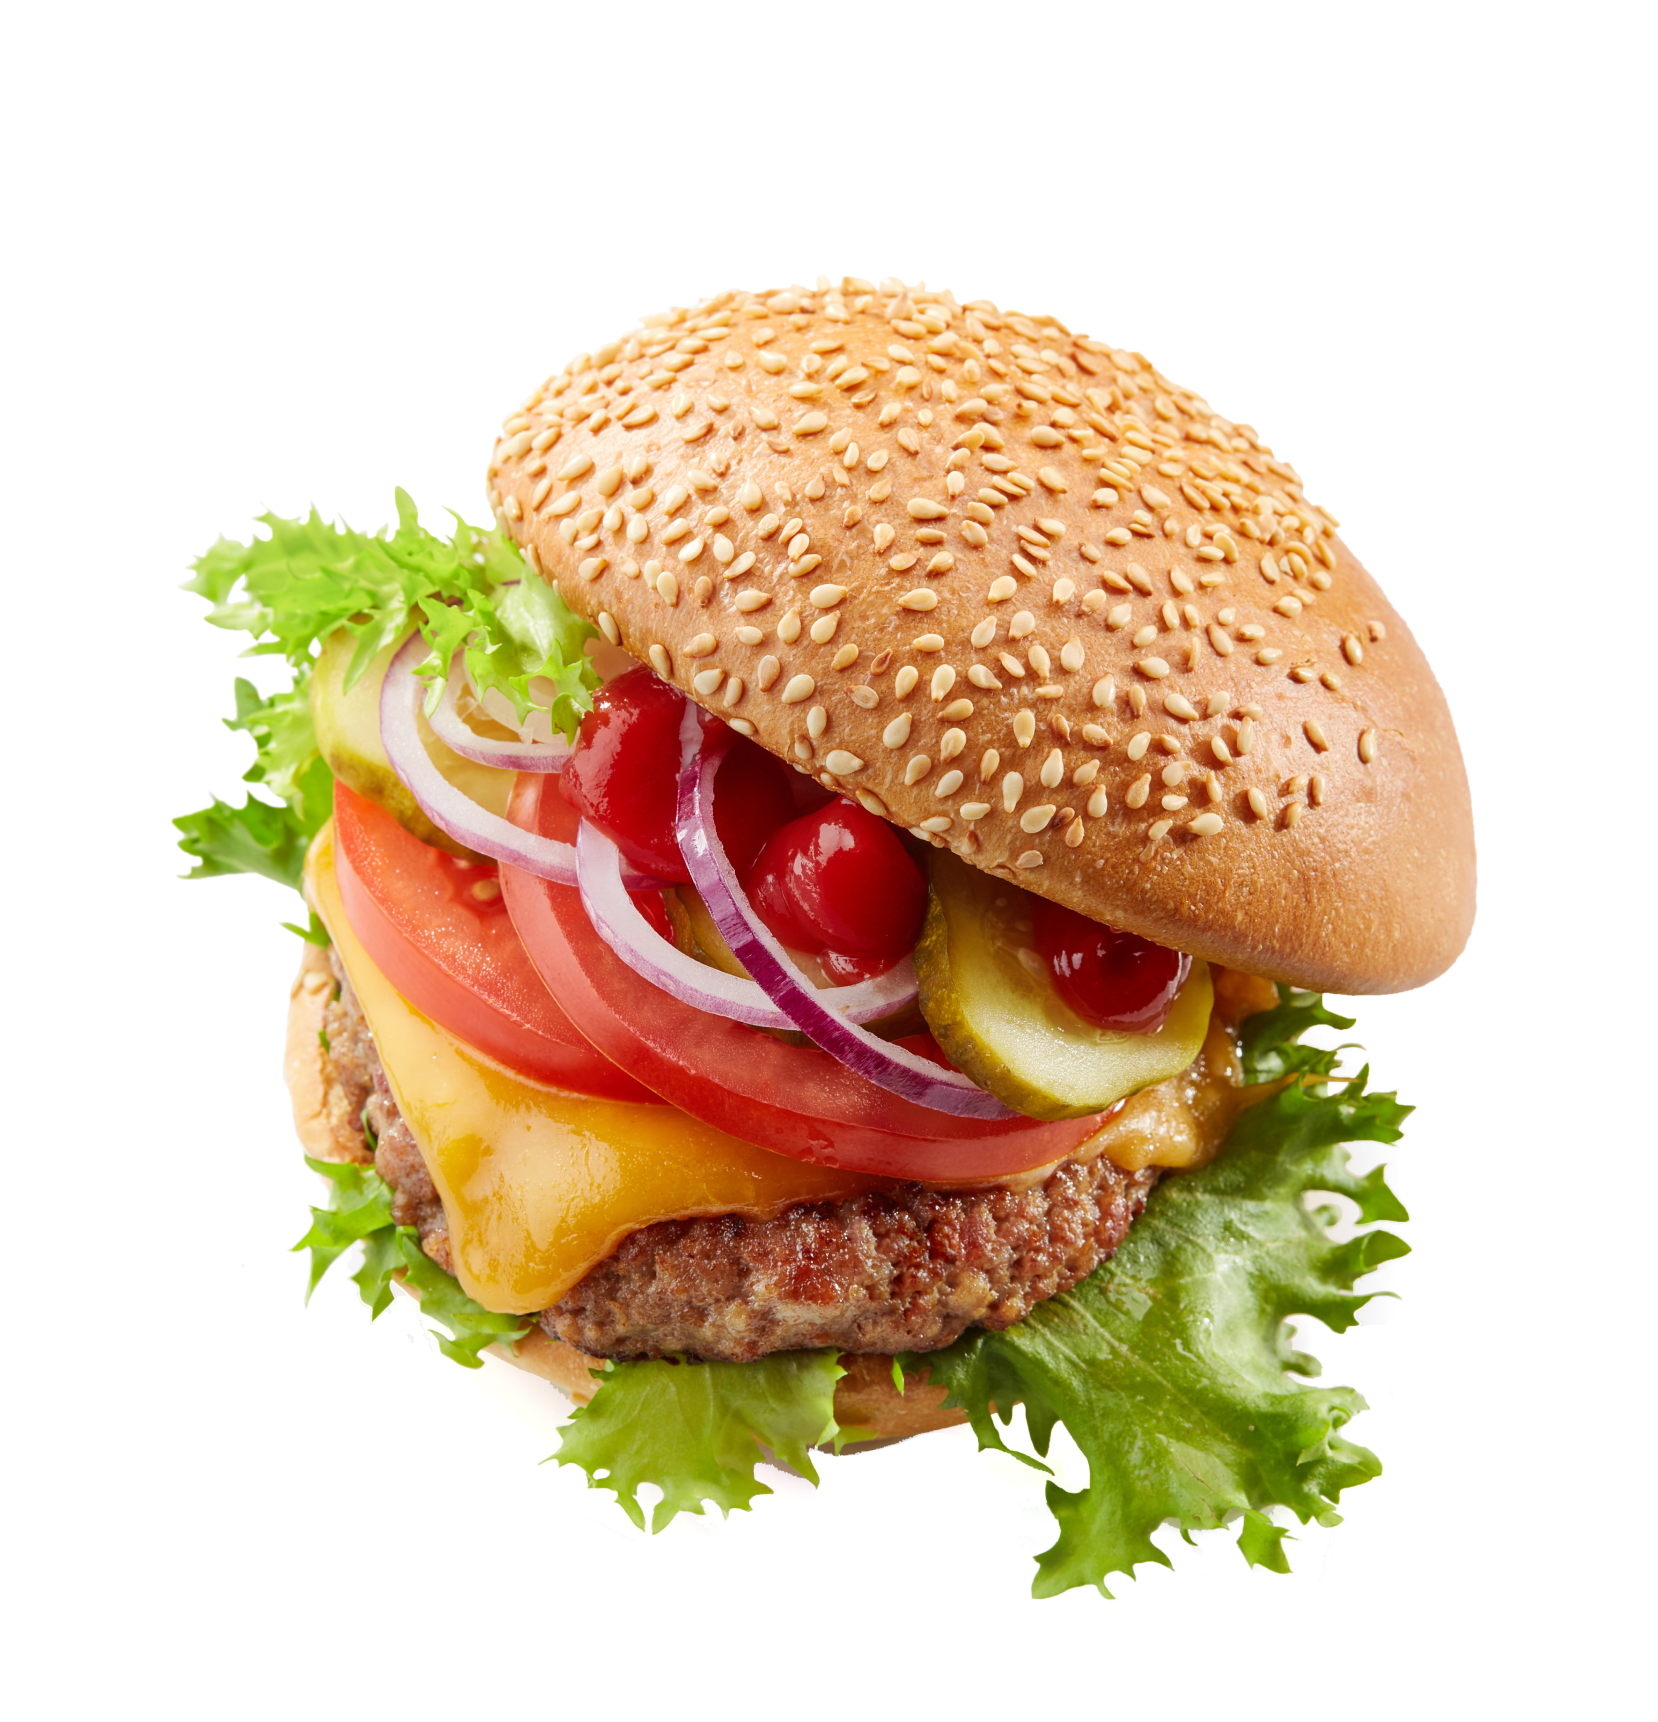
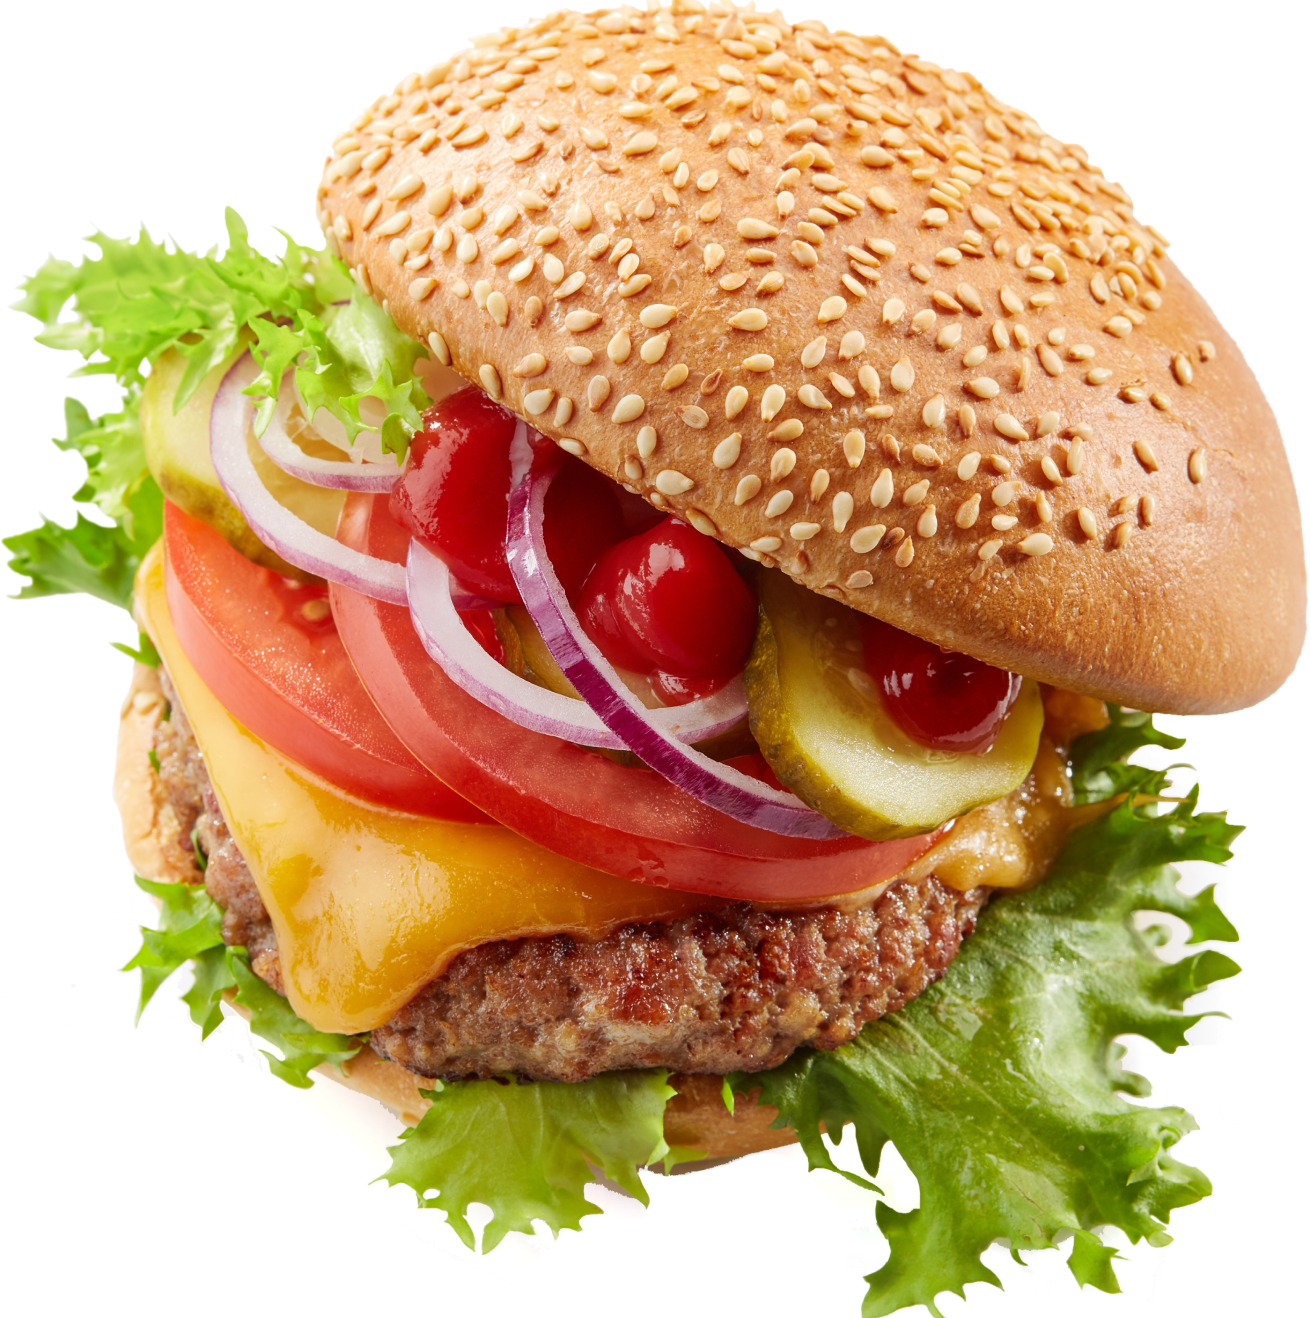
index adaptive

diff --git a/index.html b/index.html
@@ -30,23 +30,25 @@
             </div>
             <div class="right">
                 <div class="right-bg"></div>
-                <img src="img/burger.png" alt="burger">
+                <img src="img/burger.png" class="big-burger" alt="burger">
             </div>
         </div>
     </div>
 
     <div id="promo" class="main">
         <div class="wrapper">
-            <div class="promo-left">
-                <p class="sale">скидка</p>
-                <p class="cost">-20%</p>
-                <p class="promo-description">При заказе на 3х и более персон мы делаем скидки, а также&nbsp;предоставляем скидки именинникам</p>
-            </div>
-            <div class="promo-right">
-                <p class="free">Бесплатно</p>
-                <p class="promo-description">При заказе на сумму 500 рублей и более -<br>
-                    доставляем бесплатно</p>
-                <a href="menu.html" class="content-link">заказать</a>
+            <div class="wrapper-banner">
+                <div class="promo-left">
+                    <p class="sale">скидка</p>
+                    <p class="cost">-20%</p>
+                    <p class="promo-description">При заказе на 3х и более персон мы делаем скидки, а также&nbsp;предоставляем скидки именинникам</p>
+                </div>
+                <div class="promo-right">
+                    <p class="free">Бесплатно</p>
+                    <p class="promo-description">При заказе на сумму 500 рублей и более -<br>
+                        доставляем бесплатно</p>
+                    <a href="menu.html" class="content-link">заказать</a>
+                </div>
             </div>
         </div>
     </div>
@@ -54,16 +56,34 @@
     <footer class="footer">
         <div class="container">
              <div class="footer-box">
-                <div class="footer-item">
+                <div class="footer-item footer-mobile">
                     <img src="img/logo-footer.svg" class="footer-logo" alt="logo">
+                    <div class="tel">
+                        <ul class="footer-list footer-list-tel">
+                            <li>
+                                <a href="tel:+79007871313">+ 7 900 787 13-13</a>
+                            </li>
+                            <li>
+                                <a href="tel:+79007001414">+ 7 900 700 14-14</a>
+                            </li>
+                        </ul>
+                    </div>
                 </div>
                 <div class="footer-item">
                     <h2>основные ссылки</h2>
                     <ul class="footer-list">
                         <li><a href="menu.html">Меню</a></li>
-                        <li><a href="#">Заказ и Доставка</a></li>
-                        <li><a href="#">Методы оплаты</a></li>
-                        <li><a href="#">Контакты</a></li>
+                        <li><a href="">Заказ и Доставка</a></li>
+                        <li><a href="">Методы оплаты</a></li>
+                        <li><a href="">Контакты</a></li>
+                    </ul>
+                    <ul class="footer-list footer-list-tel">
+                        <li>
+                            <a href="tel:+79007871313">+ 7 900 787 13-13</a>
+                        </li>
+                        <li>
+                            <a href="tel:+79007001414">+ 7 900 700 14-14</a>
+                        </li>
                     </ul>
                 </div>
                 <div class="footer-item">
@@ -76,7 +96,7 @@
                         </li>
                         <li>
                             <span>Адрес</span>
-                            Москва, ул. Тверская, 5, вход со двора
+                            Москва, ул. Тверская, 5
                         </li>
                     </ul>
                 </div>

diff --git a/css/main.css b/css/main.css
@@ -407,9 +407,11 @@ header{
     justify-content: space-between;
 }
 .right img{
-    width: 829px;
+    width: 650px;
     position: absolute;
-    right: -169px;
+    right: -89px;
+    top: 120px;
+    overscroll-behavior-x: 0;
 }
 .content{
     color: #FAF9F9;
@@ -474,13 +476,19 @@ header{
     padding-top: 177px;
     padding-bottom: 182px;
 }
+.wrapper-banner{
+    display: flex;
+    justify-content: space-between;
+    width: 1180px;
+    gap: 12px;
+}
 .promo-left,
 .promo-right{
-    flex: 0 0 49%;
     color:#FFFFFF;
     box-sizing: border-box;
     background-position: center;
     background-repeat: no-repeat;
+    width: 100%;
 }
 
 .promo-left{
@@ -593,8 +601,51 @@ header{
         display: none;
     }
 }
-
+@media (max-width:1200px){
+    /* .wrapper{
+        max-width: 1000px;
+    } */
+}
 @media (max-width:1000px){
+    .promo-left, .promo-right {
+        width: 49%;
+    }
+    .wrapper{
+        max-width: 738px;
+    }
+    .wrapper-banner{
+        gap: 6px;
+        width: 738px;
+    }
+    .content{
+        margin-top: 42px;
+        margin-bottom: 122px;
+    }
+    .right img {
+        width: 132%;
+        top: 325px;
+        right: -15px;
+    }
+    .right-bg {
+        width: 218px;
+    }
+    .content-title {
+        font-size: 86px;
+       }
+    .content-text {
+        font-size: 16px;
+    }
+    .promo-left {
+        padding: 44px 53px 43px 30px;
+    }
+    .promo-right {
+        padding: 60px 30px;
+        background-position: center center;
+        object-fit: contain;
+    }
+    .promo-description{
+        width: 306px;
+    }
     .container{
         max-width: 738px;
     }
@@ -679,6 +730,29 @@ header{
     .tel .footer-list{
         margin: 0;
     }
+    .wrapper-banner{
+        flex-direction: column;
+        align-items: center;
+        width: 567px;
+    }
+    .wrapper{
+        flex-direction: column;
+        max-width: 567px;
+        margin:0 auto;
+    }
+    .promo-left, .promo-right {
+        width: 100%;
+        width: 567px;
+    }
+    .right img {
+        width: 55%;
+        top: -210px;
+        right: 0px;
+    }
+    .content {
+        width: 80%;
+        padding: 0 15px;
+    }
 }
 @media (max-width:567px){
     .bg{
@@ -730,6 +804,39 @@ header{
     .menu-extra .menu-grid-item {
         flex: 0 0 185px;
     }
+    .wrapper-banner{
+        flex-direction: column;
+        width: 414px;
+        align-self: center;
+    }
+    .content {
+        margin-bottom: 162px;
+        width: 60%;
+    }
+    .right-bg {
+     display: none;
+    }
+    .content-title {
+        font-size: 58px;
+        line-height: 70px;
+    }
+    .content-text {
+        font-size: 13px;
+    }
+    .wrapper{
+        max-width: 414px;
+    }
+    .right img{
+        top: -205px;
+        width: 50%;
+        right: 0px;
+    }
+    .content-title span {
+        font-size: 20px;
+    }
+    .promo-left, .promo-right {
+        width: 100%;
+    }
 }
 @media(max-width:414px){
     .menu-extra .menu-grid-item{
@@ -737,6 +844,17 @@ header{
     }
     .menu-grid-title {
         font-size: 18px;
+    }
+    .wrapper-banner{
+        width: 320px;
+    }
+    .promo-description {
+        font-size: 13px;
+        width: 280px;
+    }
+    .right img {
+        top: -140px;
+        width: 55%;
     }
 }
 @media (max-width:360px){
